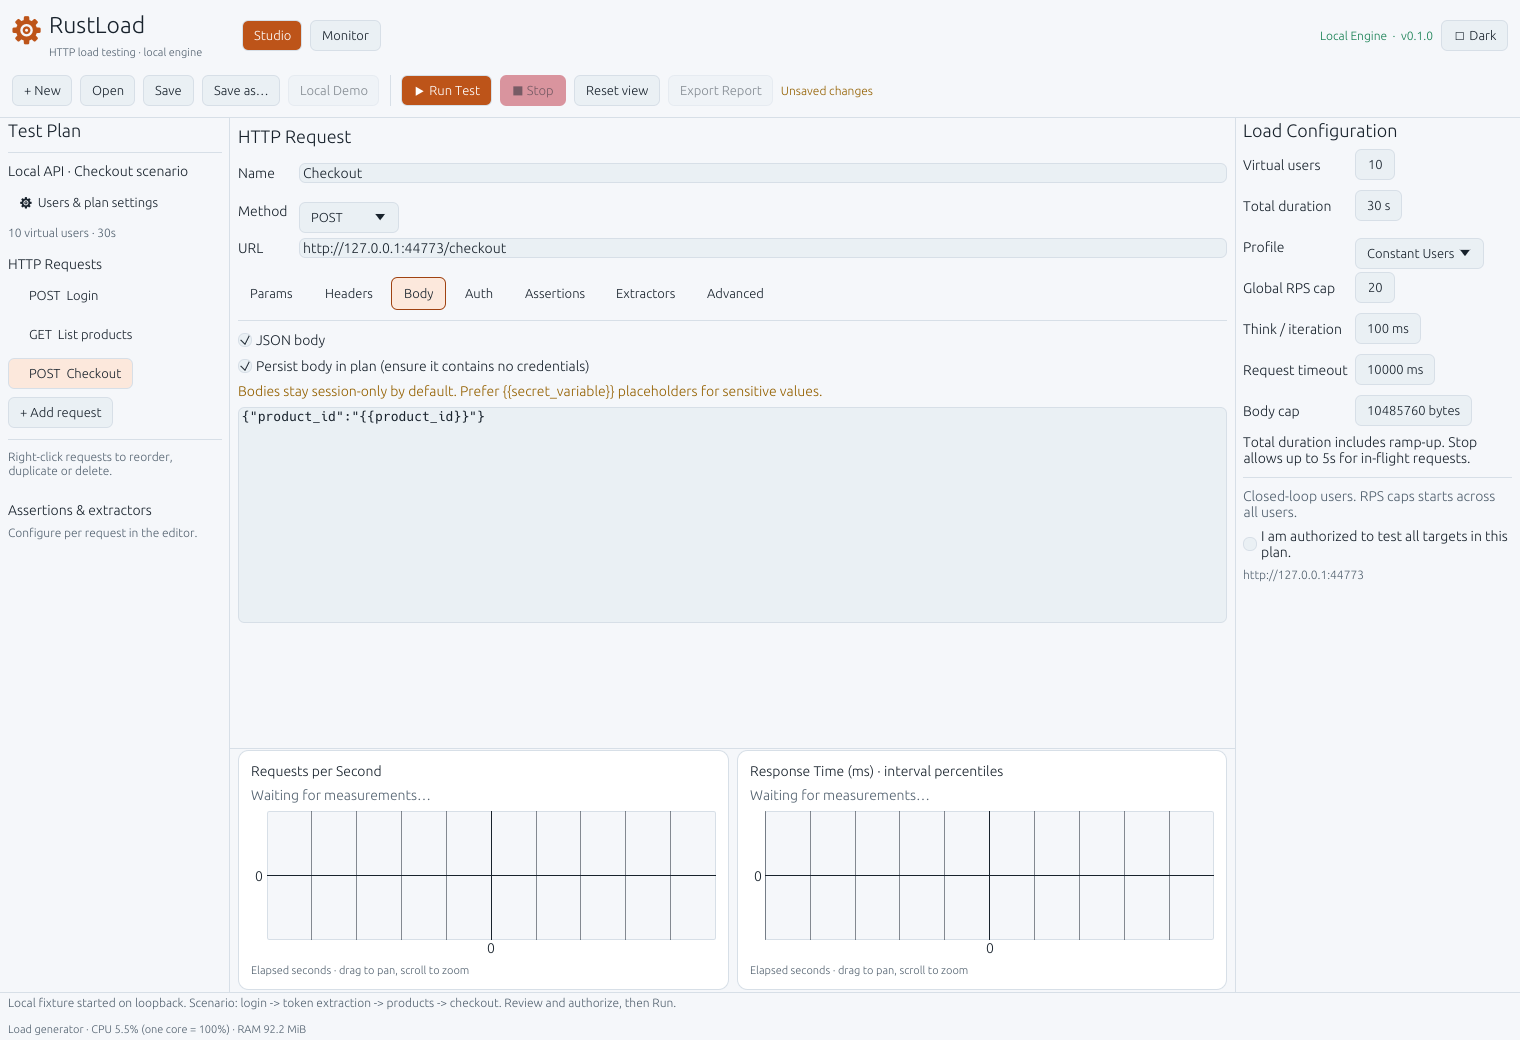
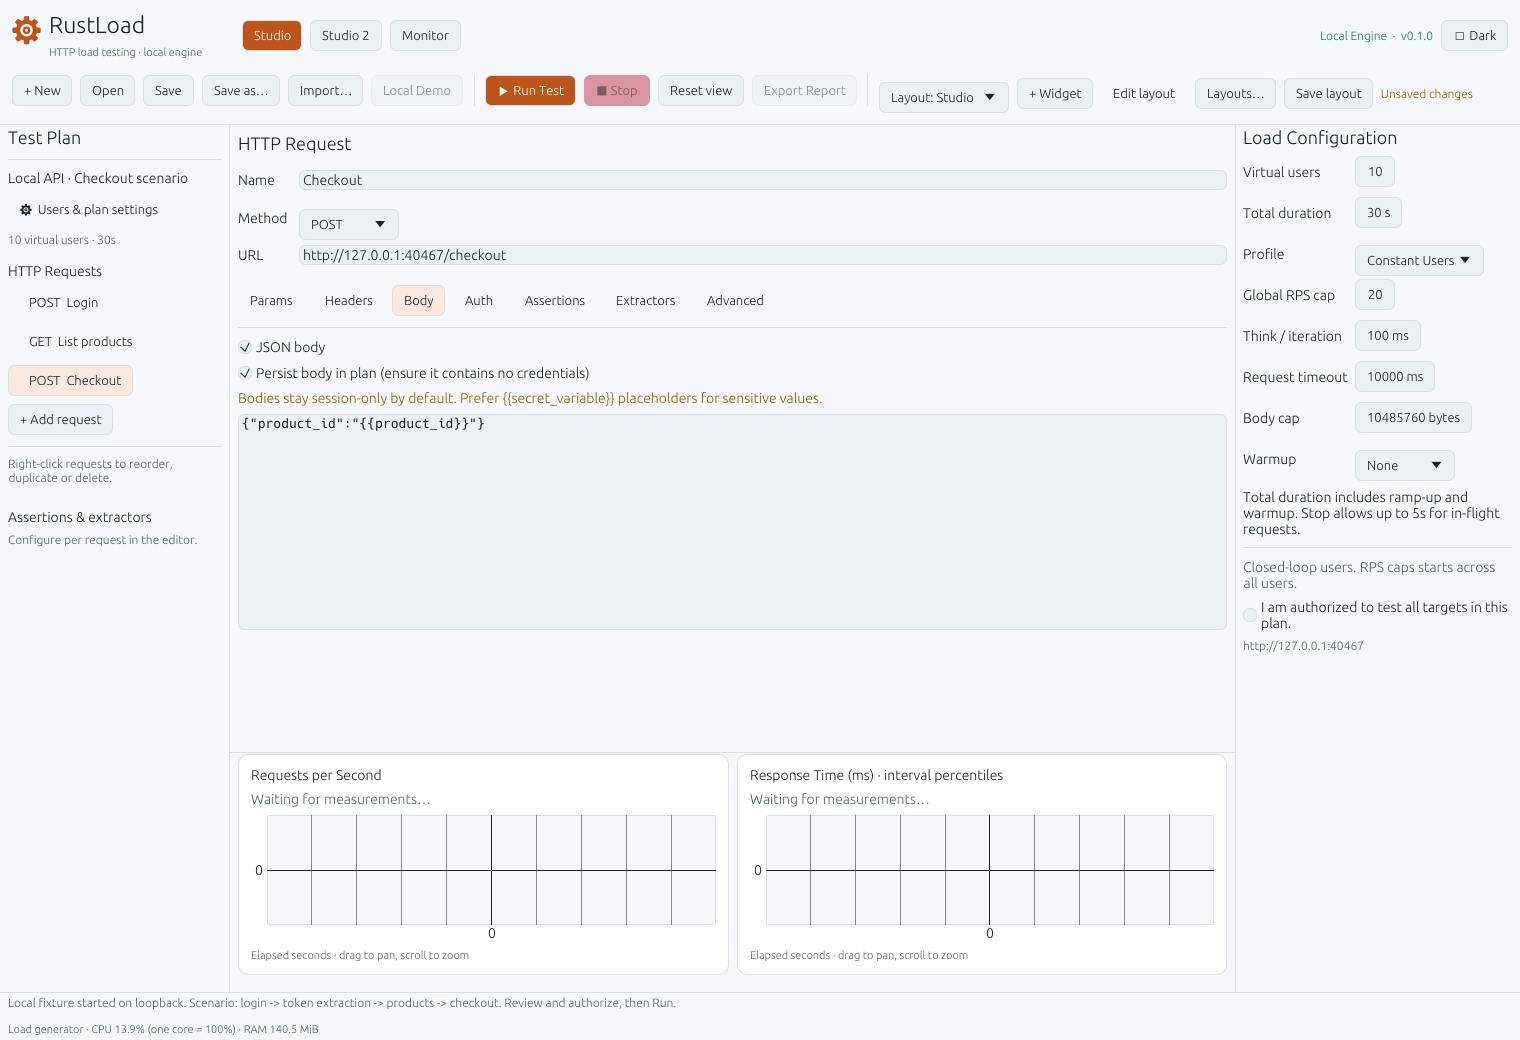
docs: refresh outdated screenshots from the current app
Recapture the Studio, Studio 2, Monitor and widget screenshots from the
current build using real Local Demo runs against the loopback fixture,
keeping file names and dimensions (1520x1040, compact 900x720) so links
are unchanged. They now show the Import… button, toolbar layout
controls, Warmup, Data/sec KPI, Baseline/Compare history actions, SLO
Thresholds tree node and the expanded widget catalog.

Describe the compact Studio 2 right dock as the "Dashboard widgets"
collapsible it now is.

Claude-Session: https://claude.ai/code/session_01VjX78gnzj2JLfifUnpDpDh

diff --git a/docs/studio2.md b/docs/studio2.md
@@ -33,8 +33,8 @@ Run from Studio 2 keeps this layout open; Run from Studio retains the original
 automatic Monitor transition. Editing is locked during execution, Stop stays
 available, and moving between layouts does not start or stop another run.
 
-On smaller windows the metrics are collapsible, Body/Load become tabs and the
-bottom charts/logs become tabs. Long tree labels truncate rather than expanding
+On smaller windows the right-dock widgets (Live Metrics by default) collapse under
+**Dashboard widgets**, Body/Load become tabs and the bottom charts/logs become tabs. Long tree labels truncate rather than expanding
 the sidebar. Themes and metrics retain the same semantic tokens.
 
 The tree represents the existing sequential scenario model. Visual folders do not
